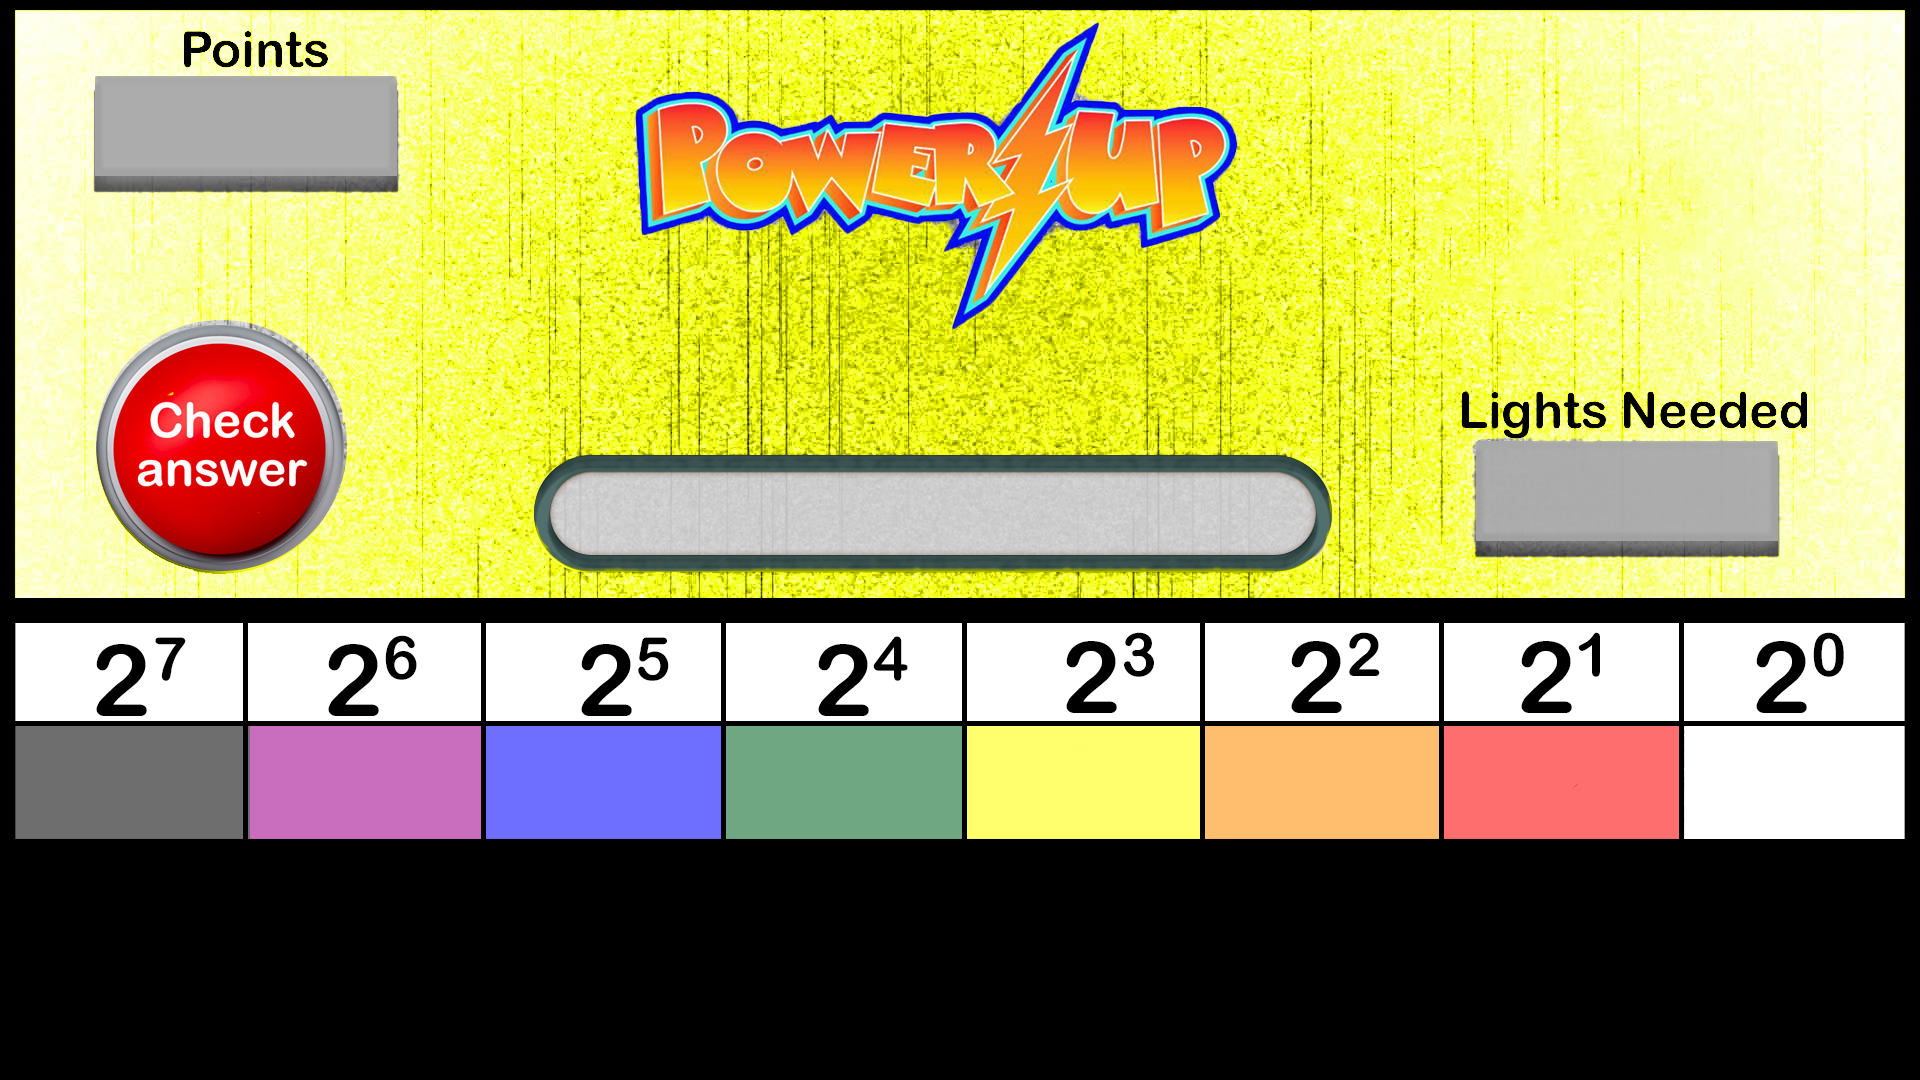
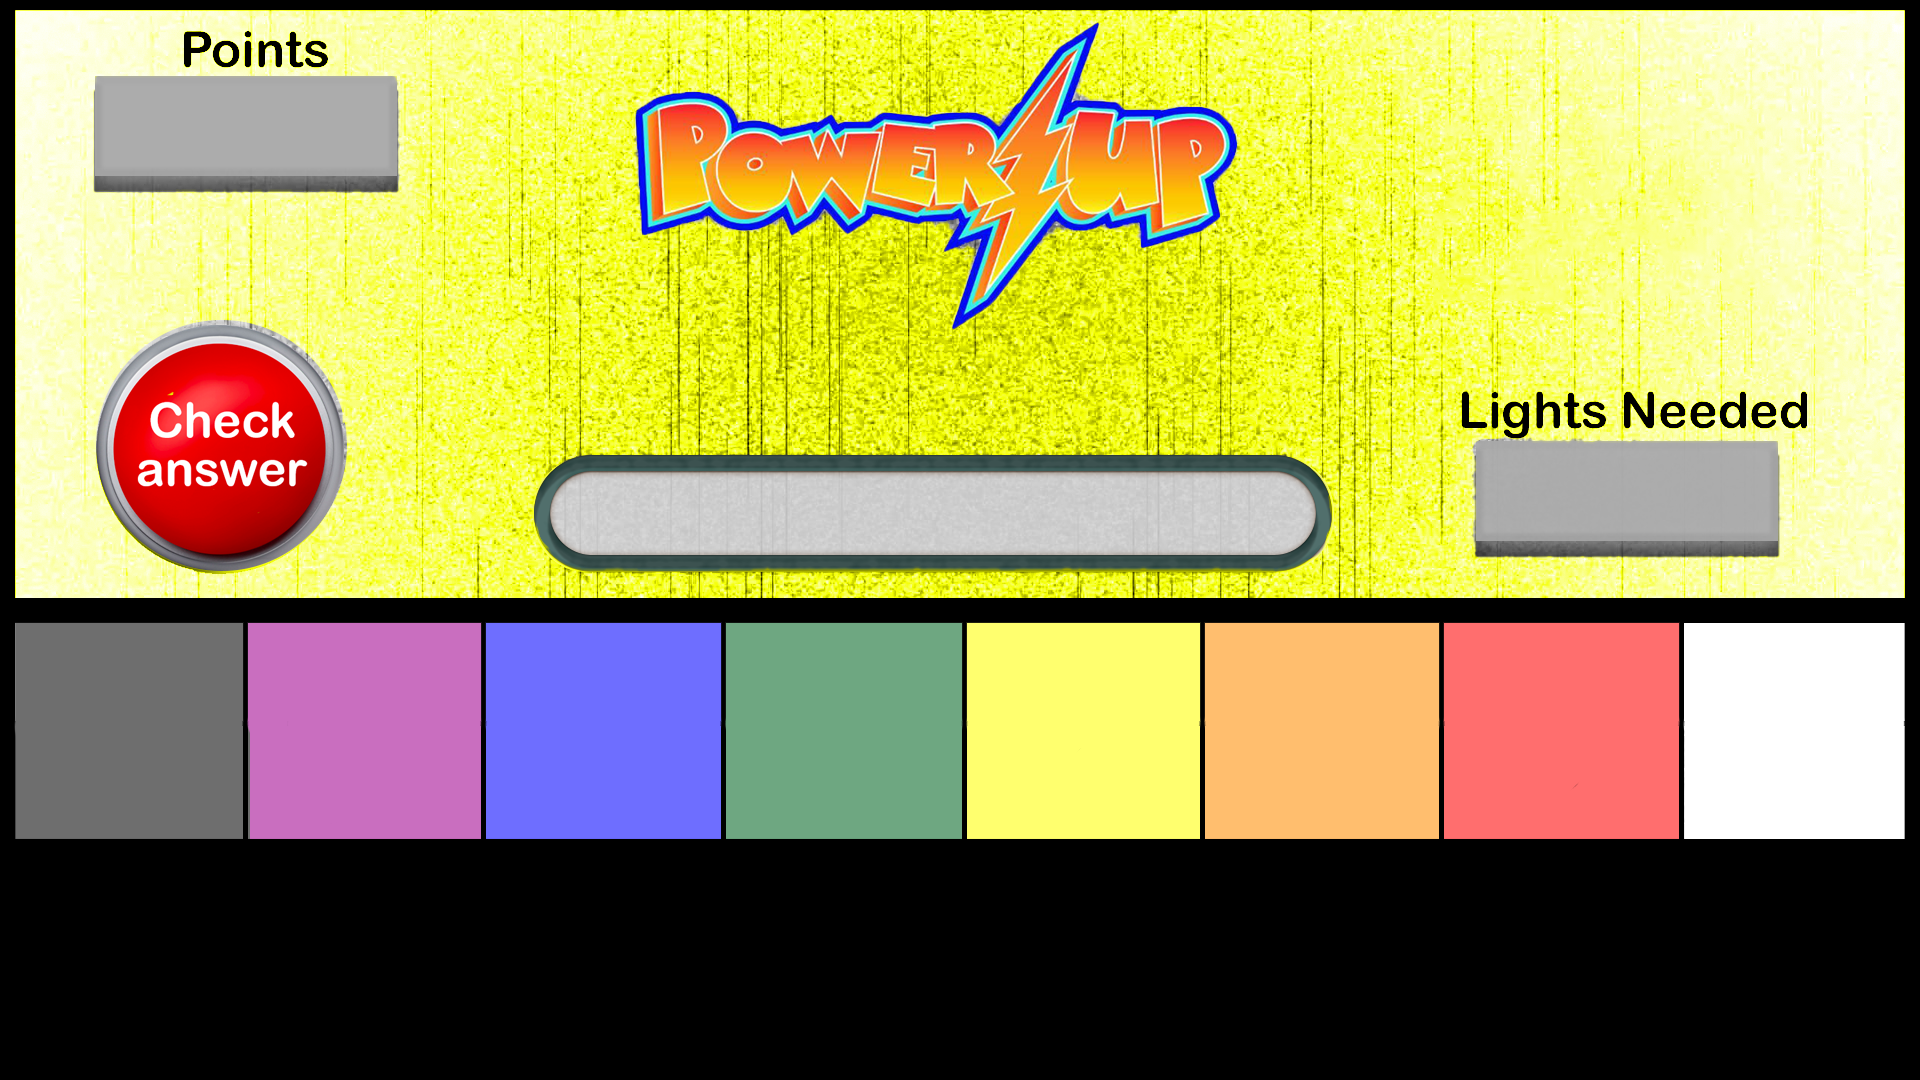
Added binary 1 & 0's for last level

Changed region(s): [[0.0, 0.55, 1.0, 0.6722]]

diff --git a/PowerUp/ViewController.swift b/PowerUp/ViewController.swift
@@ -63,11 +63,16 @@ class ViewController: UIViewController {
     var score: Int!
     var record: Int!
     var lives = 0
-
-
     
-   
- 
+    @IBOutlet weak var light1: UILabel!
+    @IBOutlet weak var light2: UILabel!
+    @IBOutlet weak var light3: UILabel!
+    @IBOutlet weak var light4: UILabel!
+    @IBOutlet weak var light5: UILabel!
+    @IBOutlet weak var light6: UILabel!
+    @IBOutlet weak var light7: UILabel!
+    @IBOutlet weak var light8: UILabel!
+    
     
   
     
@@ -92,6 +97,14 @@ class ViewController: UIViewController {
         let url3 = URL(fileURLWithPath: wrong)
         let levels = Bundle.main.path(forResource: "Level", ofType: "mp3")!
         let url4 = URL(fileURLWithPath: levels)
+        light1.isHidden = true
+        light2.isHidden = true
+        light3.isHidden = true
+        light4.isHidden = true
+        light5.isHidden = true
+        light6.isHidden = true
+        light7.isHidden = true
+        light8.isHidden = true
         
   
      
@@ -171,6 +184,17 @@ class ViewController: UIViewController {
             }
           
         
+            if(level < 9){
+                light1.isHidden = true
+                light2.isHidden = true
+                light3.isHidden = true
+                light4.isHidden = true
+                light5.isHidden = true
+                light6.isHidden = true
+                light7.isHidden = true
+                light8.isHidden = true
+            }
+            
             if(level > 8 && level < 17){
                 multiply = 1
                 levelGUI.image = UIImage(named: "Red.png")
@@ -181,6 +205,15 @@ class ViewController: UIViewController {
                 levelGUI.image = UIImage(named: "Orange.png")
                 background.image = UIImage(named: "Orange.png")
                 multiply = 2
+                light1.isHidden = false
+                light2.isHidden = false
+                light3.isHidden = false
+                light4.isHidden = false
+                light5.isHidden = false
+                light6.isHidden = false
+                light7.isHidden = false
+                light8.isHidden = false
+              
             }
             if(level > 24 && level < 33){
                 levelGUI.image = UIImage(named: "Yellow.png")
@@ -273,10 +306,12 @@ class ViewController: UIViewController {
             sender.setImage(UIImage(named: "LightOn.png"), for: UIControlState())
             button1 = 1
             currentCount += 1
+            light1.text = "1"
         } else {
             sender.setImage(UIImage(named: "LightOff.png"), for: UIControlState())
             button1 = 0
             currentCount -= 1
+            light1.text = "0"
         }
          message_lbl.text = ""
         var cCount = String(currentCount)
@@ -290,10 +325,12 @@ class ViewController: UIViewController {
             sender.setImage(UIImage(named: "LightOn.png"), for: UIControlState())
             button2 = 1
             currentCount += 2
+            light2.text = "1"
         } else {
             sender.setImage(UIImage(named: "LightOff.png"), for: UIControlState())
             button2 = 0
             currentCount -= 2
+            light2.text = "0"
         }
          message_lbl.text = ""
         var cCount = String(currentCount)
@@ -307,10 +344,12 @@ class ViewController: UIViewController {
             sender.setImage(UIImage(named: "LightOn.png"), for: UIControlState())
             button3 = 1
             currentCount += 4
+            light3.text = "1"
         } else {
             sender.setImage(UIImage(named: "LightOff.png"), for: UIControlState())
             button3 = 0
             currentCount -= 4
+            light3.text = "0"
         }
          message_lbl.text = ""
         var cCount = String(currentCount)
@@ -324,10 +363,12 @@ class ViewController: UIViewController {
             sender.setImage(UIImage(named: "LightOn.png"), for: UIControlState())
             button4 = 1
             currentCount += 8
+            light4.text = "1"
         } else {
             sender.setImage(UIImage(named: "LightOff.png"), for: UIControlState())
             button4 = 0
             currentCount -= 8
+            light4.text = "0"
         }
          message_lbl.text = ""
         var cCount = String(currentCount)
@@ -341,10 +382,12 @@ class ViewController: UIViewController {
             sender.setImage(UIImage(named: "LightOn.png"), for: UIControlState())
             button5 = 1
             currentCount += 16
+            light5.text = "1"
         } else {
             sender.setImage(UIImage(named: "LightOff.png"), for: UIControlState())
             button5 = 0
             currentCount -= 16
+            light5.text = "0"
         }
          message_lbl.text = ""
         var cCount = String(currentCount)
@@ -358,10 +401,12 @@ class ViewController: UIViewController {
             sender.setImage(UIImage(named: "LightOn.png"), for: UIControlState())
             button6 = 1
             currentCount += 32
+            light6.text = "1"
         } else {
             sender.setImage(UIImage(named: "LightOff.png"), for: UIControlState())
             button6 = 0
             currentCount -= 32
+            light6.text = "0"
         }
          message_lbl.text = ""
         var cCount = String(currentCount)
@@ -375,10 +420,12 @@ class ViewController: UIViewController {
             sender.setImage(UIImage(named: "LightOn.png"), for: UIControlState())
             button7 = 1
             currentCount += 64
+            light7.text = "1"
         } else {
             sender.setImage(UIImage(named: "LightOff.png"), for: UIControlState())
             button7 = 0
             currentCount -= 64
+            light7.text = "0"
         }
          message_lbl.text = ""
         var cCount = String(currentCount)
@@ -392,11 +439,13 @@ class ViewController: UIViewController {
             sender.setImage(UIImage(named: "LightOn.png"), for: UIControlState())
             button8 = 1
             currentCount += 128
+            light8.text = "1"
             
         } else {
             sender.setImage(UIImage(named: "LightOff.png"), for: UIControlState())
             button8 = 0
             currentCount -= 128
+            light8.text = "0"
             
         }
          message_lbl.text = ""
